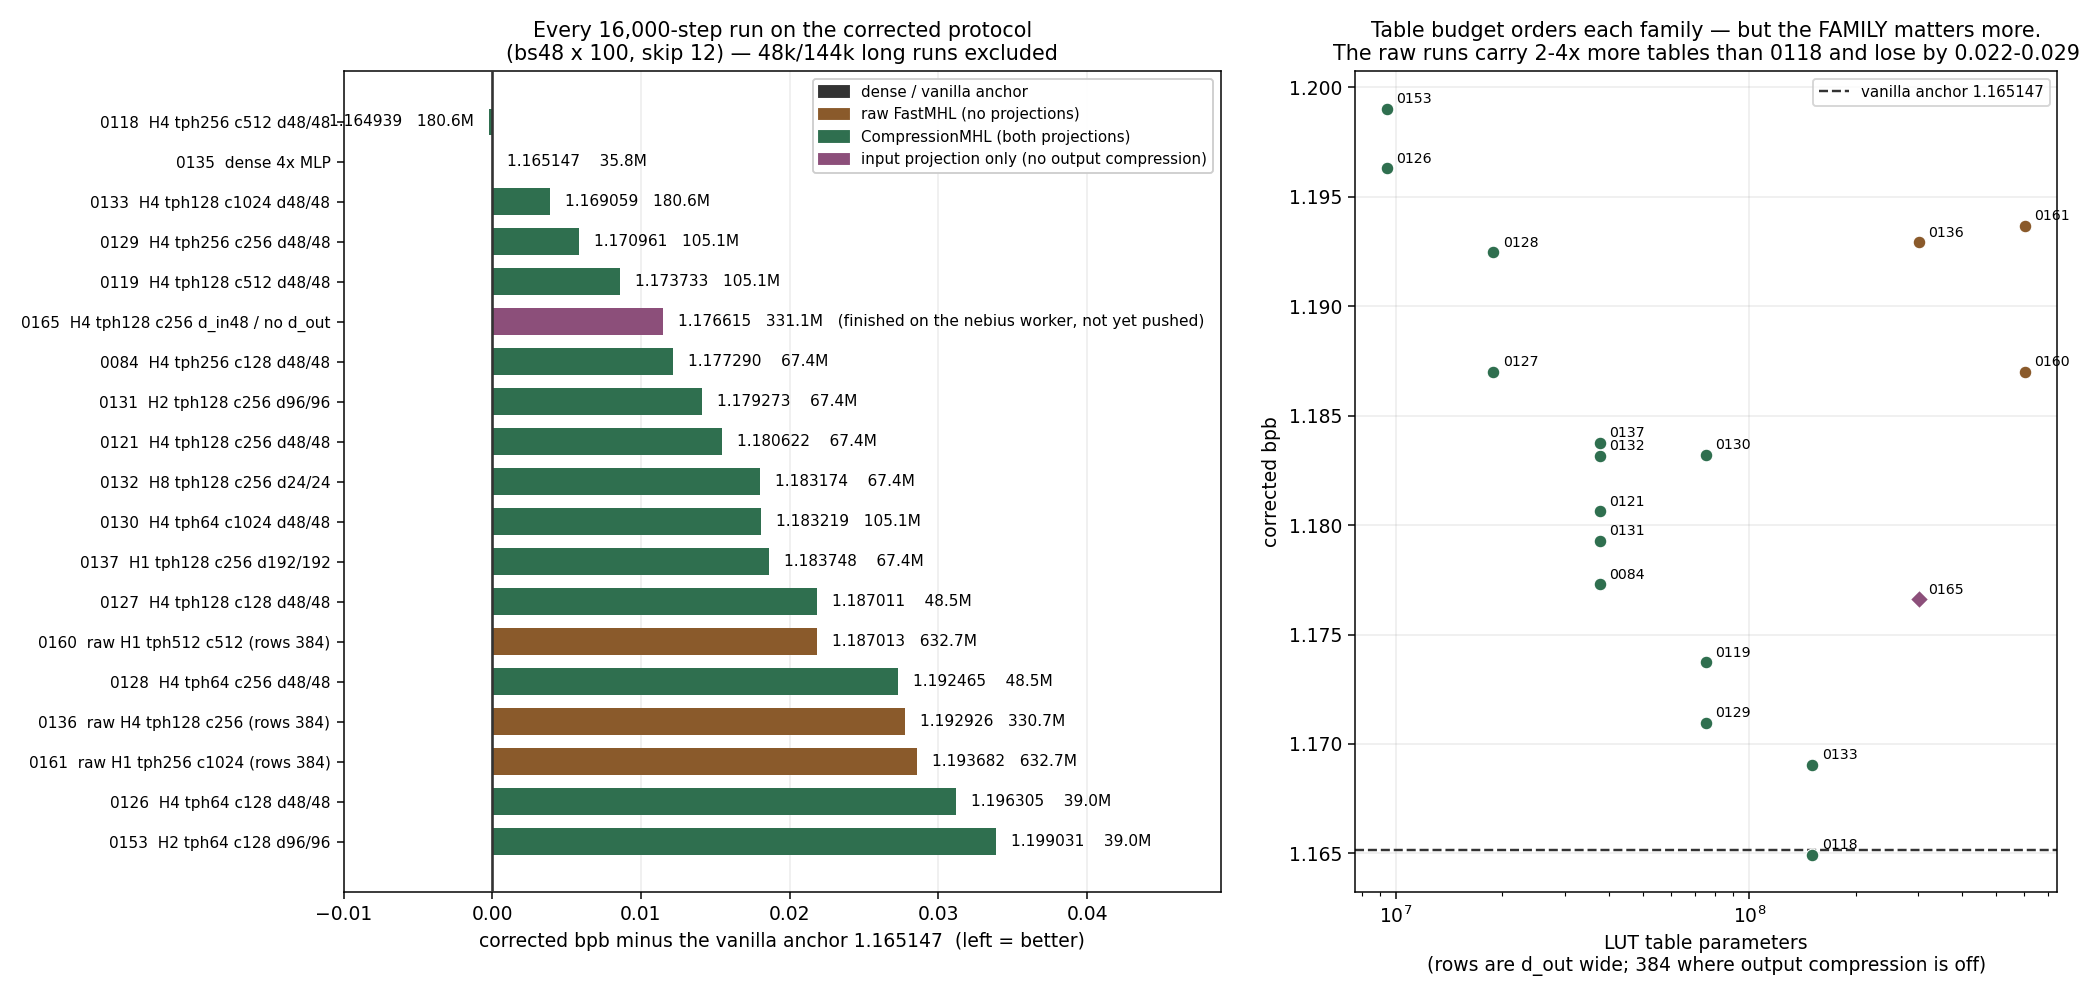
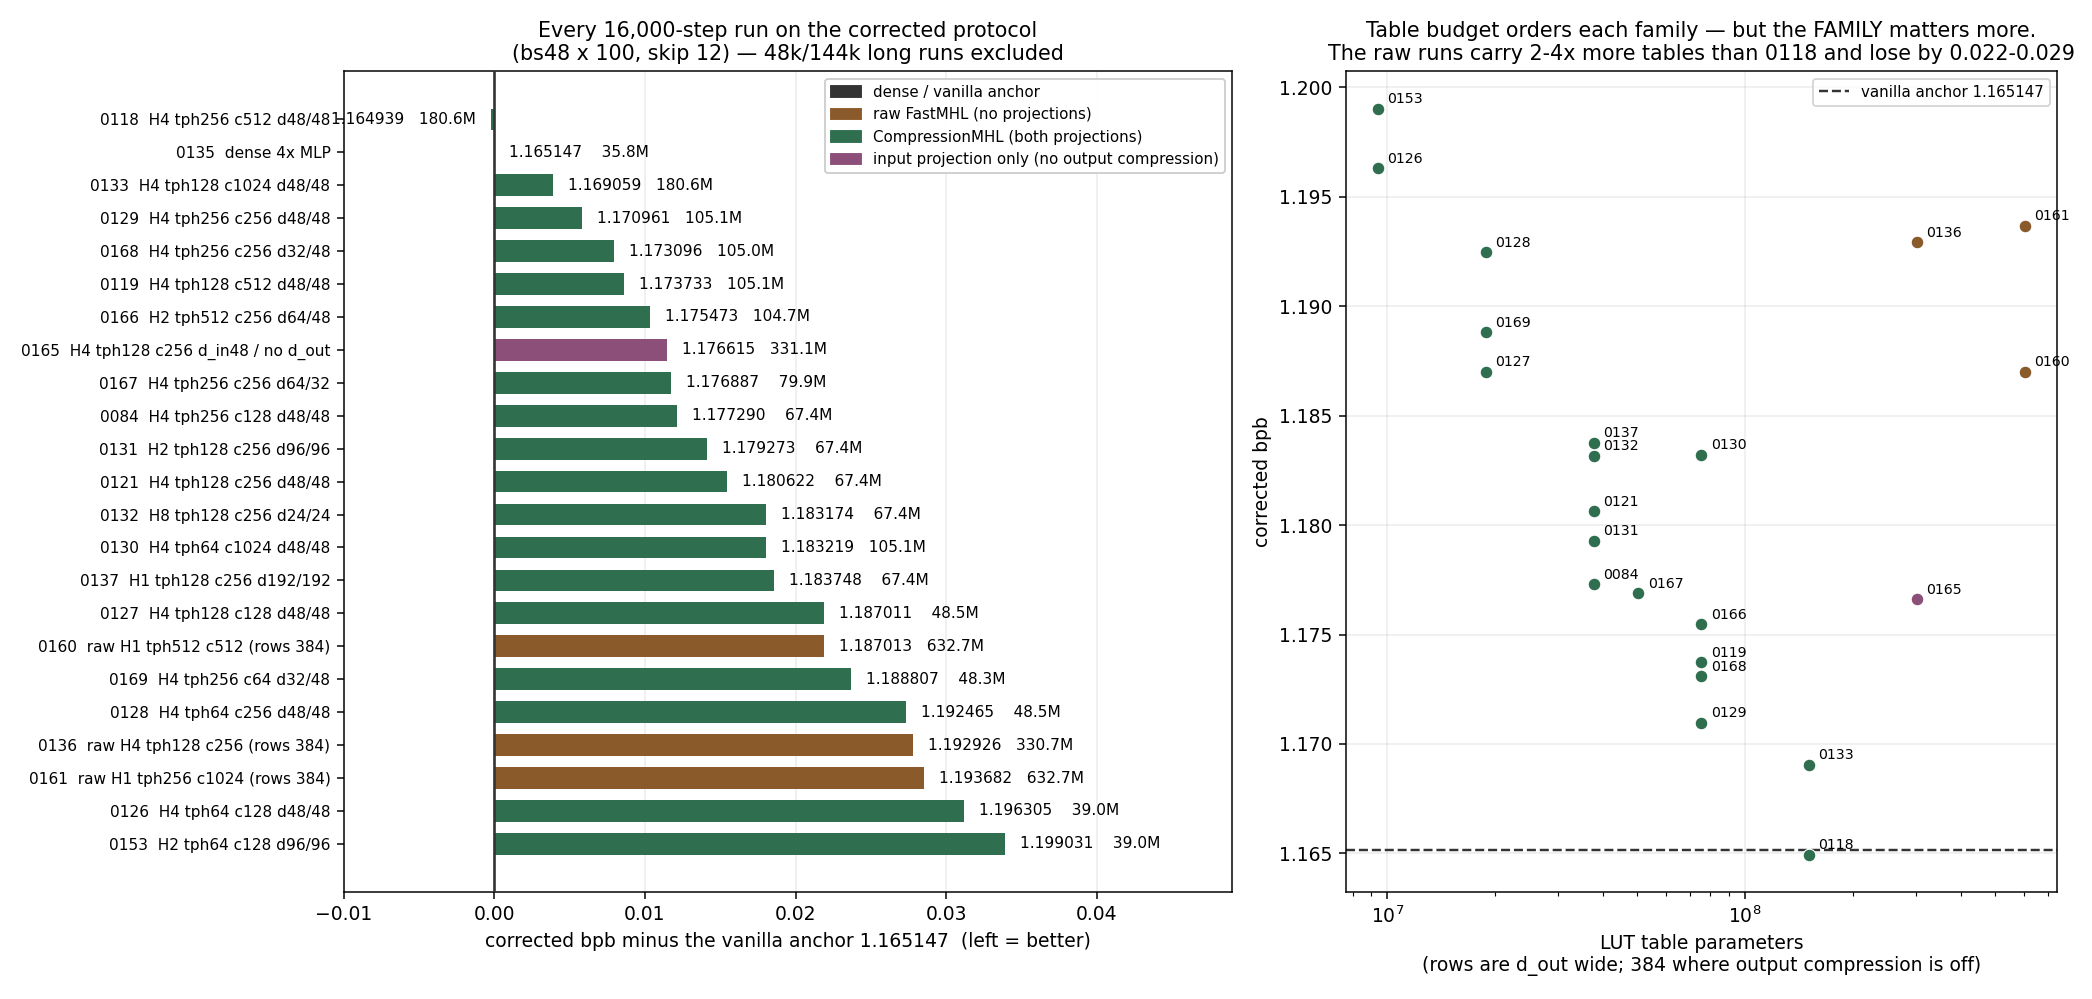
runs_corrected: consolidated 16k picture — 23 runs, S5/R6/S2/U1 included, all guard-verified (#111)
Reporting only. Pulled nebius's four new results (0166 R6, 0167 S2, 0168 S5, 0169 U1) plus code
for 0170 (U3) and 0171 (0118@48k). Every number in this section is read from the run's own
corrected_score.json / summary.json in the repo, never from chat.

GUARD, RUN INDEPENDENTLY (report_16k.py --verify). For all 23 runs I rebuilt the model from its
own config.json and compared to its own summary.json: 23 of 23 match EXACTLY, and every score
file that records state-dict load counts records 0 missing / 0 unexpected. Five older files
(0118, 0129, 0133, 0135, 0136) state the clean load in prose rather than as fields — verified at
scoring time, but the field is absent, so the write-up marks them verified-by-description rather
than claiming a check I did not re-run. Also taught report_16k.py that the worker writes
`bpb_fixed` where the local scorer writes `corrected_val_bpb`; without that the two worker runs
would have been silently dropped.

1. THE FRONT-RUNNER IS 0118, NOT S5. S5 (0168) confirms at 1.173096, +0.007949 vs vanilla — but
that is +0.008157 ABOVE 0118, and S5 is only the fourth-best LUT run, behind 0118, 0133 and
0129. Any "closest to dense" claim belongs to 0118, which matches vanilla to within noise
(0.000208 below the anchor, ~10x under the ~0.002 noise floor). S5's merit is efficiency, not
quality: +0.0079 at 105.0M params and 0.1042x projection cost against 0118's 180.6M and 0.1250x
— a 42% parameter saving for 0.0082 bpb. A trade, not a win.
[…]

diff --git a/experiments/ffn_replacement/runs_corrected/report_16k.py b/experiments/ffn_replacement/runs_corrected/report_16k.py
@@ -56,7 +56,13 @@ def load():
             tables=(DEPTH * H * tph * cells * row_width) if row_width else None,
             dbs=cfg.get('device_batch_size'),
             orig=s.get('originally_reported_bpb') or summ.get('final_val_bpb'),
-            corr=s['corrected_val_bpb']))
+            # nebius's worker writes `bpb_fixed`; the local scorer writes `corrected_val_bpb`
+            corr=s.get('corrected_val_bpb', s.get('bpb_fixed')),
+            miss=s.get('load_missing_keys',
+                       (s.get('checkpoint_reload_check') or {}).get('load_missing_keys')),
+            unex=s.get('load_unexpected_keys',
+                       (s.get('checkpoint_reload_check') or {}).get('load_unexpected_keys')),
+            cfg=cfg, summ=summ))
     for r in rows:
         r['delta'] = (r['corr'] - r['orig']) if r['orig'] else None
         r['native'] = r['delta'] is not None and abs(r['delta']) < 1e-12
@@ -74,8 +80,44 @@ def shape(r):
     return f"H{r['H']} tph{r['tph']} c{r['cells']} d{r['d_in']}/{r['d_out']}"
 
 
+def verify(rows):
+    """Independent guard check: rebuild every run from its OWN config.json and compare the
+    parameter count to its OWN summary.json, plus report the state-dict load counts its score
+    file recorded. The rebuild half is checked here from scratch; the load half can only be
+    read back, since the checkpoints for the nebius-side runs are not on this machine."""
+    sys.path.insert(0, os.path.join(os.path.dirname(HERE), 'tools'))
+    sys.path.insert(0, os.path.expanduser('~/projects/nanochat'))
+    from nanochat.common import get_base_dir
+    from nanochat.tokenizer import RustBPETokenizer
+    from model_build import build_model
+    vocab = RustBPETokenizer.from_directory(
+        os.path.join(get_base_dir(), 'tokenizer')).get_vocab_size()
+    print(f"{'run':<6}{'rebuilt':>13}{'summary.json':>15}{'match':>7}"
+          f"{'missing':>9}{'unexpected':>12}   verdict")
+    bad = []
+    for r in sorted(rows, key=lambda r: r['tag']):
+        m = build_model(r['cfg'], vocab, device='cpu')
+        built = sum(p.numel() for p in m.parameters())
+        del m
+        rec = r['summ'].get('total_params')
+        ok_p = rec is None or built == rec
+        ok_l = (r['miss'] in (0, None)) and (r['unex'] in (0, None))
+        v = ('OK' if ok_p and ok_l else
+             'PARAM MISMATCH — do not quote' if not ok_p else 'DIRTY LOAD — do not quote')
+        if not (ok_p and ok_l):
+            bad.append(r['tag'])
+        print(f"{r['tag']:<6}{built:>13,}{(rec or 0):>15,}{str(ok_p):>7}"
+              f"{str(r['miss']):>9}{str(r['unex']):>12}   {v}"
+              + ('   (no total_params recorded)' if rec is None else ''))
+    print(f"\nall runs pass the guard: {not bad}"
+          + ('' if not bad else f"  — failing: {', '.join(bad)}"))
+
+
 def main():
     rows = sorted(load(), key=lambda r: r['corr'])
+    if '--verify' in sys.argv:
+        verify(rows)
+        return
     print(f"ALL 16,000-STEP RUNS SCORED UNDER THE CORRECTED PROTOCOL ({len(rows)})")
     print("evaluate_bpb_fixed: bs48 x 100, skip 12, 2,451,456 val tokens of shard_06542.")
     print(f"Vanilla anchor exp_n_0135 = {ANCHOR:.6f}. "

diff --git a/experiments/ffn_replacement/runs_corrected/SWEEP_RESULTS.md b/experiments/ffn_replacement/runs_corrected/SWEEP_RESULTS.md
@@ -272,6 +272,149 @@ ordering. Nothing here transfers numerically; only the ordering does, and only a
 
 ---
 
+# The 16,000-step picture, consolidated
+
+Every 16k run scored under the corrected protocol (`evaluate_bpb_fixed`: bs48 × 100, skip 12,
+2,451,456 val tokens of held-out `shard_06542.parquet`), read from each run's own
+`corrected_score.json` / `summary.json`. Regenerated by `report_16k.py`; `report_16k.py --verify`
+re-runs the guard. The 48k/144k long runs are excluded — separate budget, own section.
+
+**Guard, run independently.** For all 23 runs I rebuilt the model from its own `config.json` and
+compared to its own `summary.json`: **23 of 23 match exactly**, and every score file that records
+state-dict load counts records 0 missing / 0 unexpected. Five older files (0118, 0129, 0133,
+0135, 0136) state the clean load in prose rather than as fields — those were verified at scoring
+time, but the *field* is absent, so this table reports them as verified-by-description.
+
+| run | label | H | tph | cells | d_in | d_out | tables | params | proj/vanilla | corrected | vs vanilla |
+|---|---|---|---|---|---|---|---|---|---|---|---|
+| 0118 | — | 4 | 256 | 512 | 48 | 48 | 150,994,944 | 180,597,900 | 0.1250× | **1.164939** | −0.000208 |
+| 0135 | vanilla | — | — | — | — | — | — | 35,792,640 | 1.0× | 1.165147 | — |
+| 0133 | — | 4 | 128 | 1024 | 48 | 48 | 150,994,944 | 180,597,900 | 0.1250× | 1.169059 | +0.003912 |
+| 0129 | — | 4 | 256 | 256 | 48 | 48 | 75,497,472 | 105,100,428 | 0.1250× | 1.170961 | +0.005814 |
+| 0168 | **S5** | 4 | 256 | 256 | 32 | 48 | 75,497,472 | 104,952,588 | 0.1042× | 1.173096 | +0.007949 |
+| 0119 | — | 4 | 128 | 512 | 48 | 48 | 75,497,472 | 105,100,428 | 0.1250× | 1.173733 | +0.008586 |
+| 0166 | **R6** | 2 | 512 | 256 | 64 | 48 | 75,497,472 | 104,731,404 | 0.0729× | 1.175473 | +0.010326 |
+| 0165 | in-proj | 4 | 128 | 256 | 48 | −1 | 301,989,888 | 331,148,172 | 0.0625× | 1.176615 | +0.011468 |
+| 0167 | **S2** | 4 | 256 | 256 | 64 | 32 | 50,331,648 | 79,934,988 | 0.1250× | 1.176887 | +0.011740 |
+| 0084 | — | 4 | 256 | 128 | 48 | 48 | 37,748,736 | 67,351,692 | 0.1250× | 1.177290 | +0.012143 |
+| 0131 | — | 2 | 128 | 256 | 96 | 96 | 37,748,736 | 67,351,692 | 0.1250× | 1.179273 | +0.014126 |
+| 0121 | — | 4 | 128 | 256 | 48 | 48 | 37,748,736 | 67,351,692 | 0.1250× | 1.180622 | +0.015475 |
+| 0132 | — | 8 | 128 | 256 | 24 | 24 | 37,748,736 | 67,351,692 | 0.1250× | 1.183174 | +0.018028 |
+| 0130 | — | 4 | 64 | 1024 | 48 | 48 | 75,497,472 | 105,100,428 | 0.1250× | 1.183219 | +0.018073 |
+| 0137 | — | 1 | 128 | 256 | 192 | 192 | 37,748,736 | 67,351,692 | 0.1250× | 1.183748 | +0.018601 |
+| 0127 | — | 4 | 128 | 128 | 48 | 48 | 18,874,368 | 48,477,324 | 0.1250× | 1.187011 | +0.021864 |
+| 0160 | raw | 1 | 512 | 512 | — | — | 603,979,776 | 632,694,540 | — | 1.187013 | +0.021866 |
+| 0169 | **U1** | 4 | 256 | 64 | 32 | 48 | 18,874,368 | 48,329,484 | 0.1042× | 1.188807 | +0.023660 |
+| 0128 | — | 4 | 64 | 256 | 48 | 48 | 18,874,368 | 48,477,324 | 0.1250× | 1.192465 | +0.027318 |
+| 0136 | raw | 4 | 128 | 256 | — | — | 301,989,888 | 330,704,652 | — | 1.192926 | +0.027780 |
+| 0161 | raw | 1 | 256 | 1024 | — | — | 603,979,776 | 632,694,540 | — | 1.193682 | +0.028535 |
+| 0126 | — | 4 | 64 | 128 | 48 | 48 | 9,437,184 | 39,040,140 | 0.1250× | 1.196305 | +0.031158 |
+| 0153 | — | 2 | 64 | 128 | 96 | 96 | 9,437,184 | 39,040,140 | 0.1250× | 1.199031 | +0.033884 |
+
+`proj/vanilla` is `H·384·(d_in + d_out)` against vanilla's whole FFN at `2·384·1536` = 1,179,648
+MACs/token; the raw runs have no projections at all.
+
+![all 16k runs](corrected_16k.png)
+
+## 1. The front-runner — it is 0118, not S5
+
+**0118 is the best LUT result at 16k**, and by a clear margin over the proxy-recommended shapes.
+S5 (0168) confirms from disk at **1.173096**, +0.007949 vs vanilla — but that is **+0.008157
+above 0118**, and S5 is only the *fourth*-best LUT run, behind 0118, 0133 and 0129.
+
+So the tension resolves cleanly and not in S5's favour: any "closest to dense" claim belongs to
+**0118**, which *matches vanilla to within noise* (0.000208 below the anchor, ~10× under the
+~0.002 noise floor). S5's merit is efficiency, not quality — it reaches +0.0079 at 105.0M params
+and 0.1042× projection cost where 0118 needs 180.6M and 0.1250×. That is a real 42%
+parameter saving for 0.0082 bpb, but it is a trade, not a win.
+
+## 2. S5 vs 0129 — the free-d_in-cut question, answered: it is **not** free
+
+The cleanest single-variable ablation in the whole 16k set. Same 75,497,472 tables, same
+H4/tph256/cells256/d_out48; the *only* difference is `d_in` 48 → 32, and the parameter gap of
+**147,840** is exactly the compress projection.
+
+| | d_in | params | corrected bpb |
+|---|---|---|---|
+| 0129 | 48 | 105,100,428 | **1.170961** |
+| 0168 (S5) | 32 | 104,952,588 | 1.173096 |
+
+**S5 is worse by +0.002135** — just above the ~0.002 noise floor. Cutting `d_in` from 48 to 32
+drops compress FLOPs from 73,728 to 49,152 (−33%) and total projection FLOPs from 147,456 to
+122,880 (**−16.7%**), and it costs 0.0021 bpb. So a ~17% multiply reduction at fixed table budget
+is *cheap but not free*, and the effect sits right at the edge of what this protocol can resolve.
+Stated without spin: **S5 does not beat 0129.** Effective batch is 24,576 tokens for both, so the
+comparison is fair; only the micro-batching differs (0129 at device_batch 12, S5 at 24).
+
+## 3. Untying downward at 18.9M tables — it cost, and the proxy's direction did not hold
+
+U1 (0169) against its tied reference 0127, same 18,874,368 tables, `d_in` 32 vs 48:
+
+| | d_in | corrected bpb |
+|---|---|---|
+| 0127 | 48 | **1.187011** |
+| 0169 (U1) | 32 | 1.188807 |
+
+**+0.001796 — untying downward bought nothing**, and if anything cost a hair, at the noise floor.
+
+Blunt version: the 4k proxy's `d_in` direction has now failed twice at full length. At 75.5M
+tables the proxy said narrower `d_in` was better (S5 32 beat R4 64 by 0.0072); full length says
+`d_in` 32 is *worse* than 48 by 0.0021 (Q2). At 18.9M tables the proxy said wider was better
+(U3 96 beat U1 32 by 0.0065); full length so far says `d_in` 32 is worse than 48 by 0.0018,
+which is at least the same sign as "32 is not the place to be". The `d_in` axis is the one
+dimension where the proxy has been an unreliable *ranker*, not merely an exaggerating one. U3
+(0170) will complete the pair.
+
+## 4. The projections ladder — it holds, and gets stronger
+
+| | projections | tables | corrected bpb |
+|---|---|---|---|
+| 0136 | none | 301,989,888 | 1.192926 |
+| 0165 | input only | 301,989,888 | 1.176615 |
+| 0167 (S2) | both | 50,331,648 | 1.176887 |
+| 0166 (R6) | both | 75,497,472 | 1.175473 |
+| 0168 (S5) | both | 75,497,472 | 1.173096 |
+| 0118 | both | 150,994,944 | **1.164939** |
+
+The three new both-projection runs slot in exactly where the ladder predicts, and sharpen it:
+**S2 ties input-only 0165 (0.000272 apart, inside noise) with 6× fewer table parameters**, and S5
+beats it outright by 0.003519 with 4× fewer. Adding the output compression is worth roughly a
+4–6× table budget. The rung ordering none → input-only → both is unchanged.
+
+## 5. Monotonicity in table parameters — preserved, and S5 does **not** displace 0129
+
+Best-of-budget within CompressionMHL, now with a new 50.3M point from S2:
+
+| tables | best run | bpb |
+|---|---|---|
+| 9,437,184 | 0126 | 1.196305 |
+| 18,874,368 | 0127 | 1.187011 |
+| 37,748,736 | 0084 | 1.177290 |
+| 50,331,648 | 0167 (S2) | 1.176887 |
+| 75,497,472 | **0129** | 1.170961 |
+| 150,994,944 | 0118 | 1.164939 |
+
+Strictly monotone across all six budgets. **0129 remains the best entry at 75.5M** — S5 (1.173096)
+and R6 (1.175473) both sit above it, so the proxy-recommended shapes did not improve on the
+historical grid at their own budget. Globally the relation still fails, and by more than before:
+0165 at 301,989,888 tables (1.176615) and 0136 at the same budget, plus 0160/0161 at 603,979,776,
+all lose to 0118 at 150,994,944.
+
+## 6. The honest headline
+
+At 16k, exactly one LUT configuration reaches the dense baseline: **0118 matches vanilla to
+within noise** — 0.000208 below the 1.165147 anchor, about ten times smaller than the ~0.002
+noise floor — and it does so at 180,597,900 parameters against dense's 35,792,640, a 5× model
+for parity. Every other LUT run sits above the anchor, from +0.0039 to +0.0339, and the three
+shapes the 4k proxy recommended land at +0.0079 (S5), +0.0103 (R6) and +0.0117 (S2), so the
+proxy sweep did not produce a configuration competitive with 0118. **16k parity does not imply
+48k parity**, and the existing long-run evidence points the other way: at 48k dense reads
+1.115420 against the best LUT's 1.145471 (+0.030), and at 144k 1.111369 against 1.137558
+(+0.026). The outstanding question is therefore `exp_n_0171` (0118 @ 48k), which is the direct
+test of whether the one parity result survives a longer schedule.
+
+---
+
 # The historical grid, re-scored — complete
 
 Separate from the proxy sweeps above: these are the **real 16k / 48k / 144k runs** re-scored
